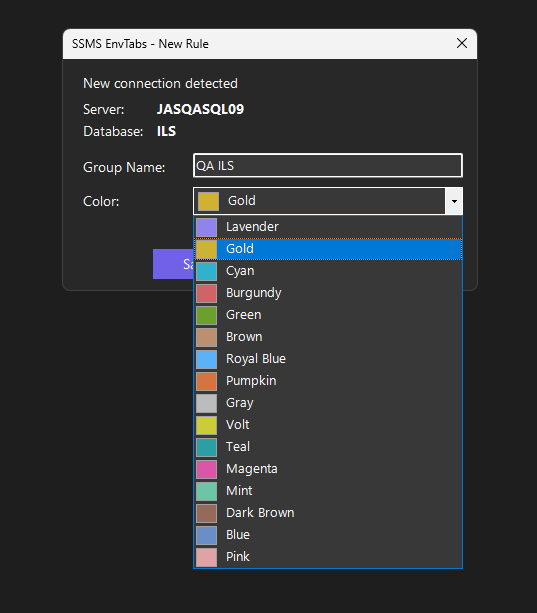
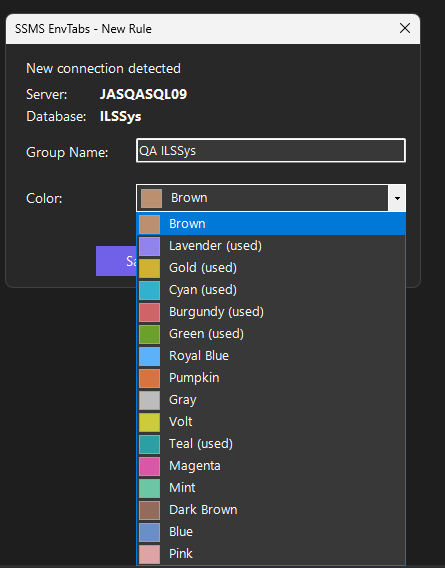
Added warning for same color

Changed region(s): [[0.0, 0.0, 0.964, 1.0]]

diff --git a/SSMS EnvTabs/NewRuleDialog.cs b/SSMS EnvTabs/NewRuleDialog.cs
@@ -44,6 +44,7 @@ namespace SSMS_EnvTabs
         private readonly string suggestedName;
         private readonly bool hideAliasStep;
         private readonly bool hideGroupNameRow;
+        private readonly HashSet<int> usedColorIndexes;
 
         private class ColorItem
         {
@@ -84,6 +85,7 @@ namespace SSMS_EnvTabs
             public bool HideDatabaseRow { get; set; }
             public bool HideAliasStep { get; set; }
             public bool HideGroupNameRow { get; set; }
+            public IEnumerable<int> UsedColorIndexes { get; set; }
         }
 
         public NewRuleDialog(NewRuleDialogOptions options)
@@ -96,6 +98,7 @@ namespace SSMS_EnvTabs
             this.suggestedName = options.SuggestedName;
             this.hideAliasStep = options.HideAliasStep;
             this.hideGroupNameRow = options.HideGroupNameRow;
+            this.usedColorIndexes = new HashSet<int>(options.UsedColorIndexes ?? Enumerable.Empty<int>());
 
             InitializeComponent(options.Server, options.Database, options.SuggestedColorIndex, options.HideDatabaseRow);
             
@@ -167,8 +170,8 @@ namespace SSMS_EnvTabs
             boldFont = new Font(scaledFont, FontStyle.Bold);
 
             int yShift = hideDatabaseRow ? 32 : 0;
-            int nameRowShift = hideGroupNameRow ? 30 : 0;
-            this.Size = new Size(430, 270 - yShift);
+            int nameRowOffset = hideGroupNameRow ? 0 : 12;
+            this.Size = new Size(430, 270 - yShift + nameRowOffset);
             this.FormBorderStyle = FormBorderStyle.FixedDialog;
             this.StartPosition = FormStartPosition.CenterScreen;
             this.MaximizeBox = false;
@@ -215,7 +218,7 @@ namespace SSMS_EnvTabs
                 panelRule.Controls.Add(lblDatabaseValue);
             }
 
-            int nameRowOffset = hideGroupNameRow ? 0 : 30;
+            // Layout adjustment when the Group Name row is visible
 
             if (!hideGroupNameRow)
             {
@@ -226,12 +229,12 @@ namespace SSMS_EnvTabs
                 panelRule.Controls.Add(txtName);
             }
 
-            lblColor = new Label { Text = "Color:", Location = new Point(16, 132 - yShift - nameRowOffset), AutoSize = true };
+            lblColor = new Label { Text = "Color:", Location = new Point(16, 132 - yShift + nameRowOffset), AutoSize = true };
             panelRule.Controls.Add(lblColor);
 
             cmbColor = new ComboBox 
             { 
-                Location = new Point(130, 128 - yShift - nameRowOffset), 
+                Location = new Point(130, 128 - yShift + nameRowOffset), 
                 Size = new Size(270, 26),
                 DropDownStyle = ComboBoxStyle.DropDownList,
                 DrawMode = DrawMode.OwnerDrawFixed,
@@ -257,7 +260,7 @@ namespace SSMS_EnvTabs
             cmbColor.DrawItem += CmbColor_DrawItem;
             cmbColor.DataSource = orderedList;
             
-            btnSave = new Button { Text = "Save", Location = new Point(90, 190 - yShift - nameRowOffset), Size = new Size(90, 30), DialogResult = DialogResult.OK };
+            btnSave = new Button { Text = "Save", Location = new Point(90, 190 - yShift + nameRowOffset), Size = new Size(90, 30), DialogResult = DialogResult.OK };
             btnSave.Click += (s, e) => {
                 if (txtName != null)
                 {
@@ -271,10 +274,10 @@ namespace SSMS_EnvTabs
             };
             panelRule.Controls.Add(btnSave);
 
-            btnCancel = new Button { Text = "Cancel", Location = new Point(190, 190 - yShift - nameRowOffset), Size = new Size(90, 30), DialogResult = DialogResult.Cancel };
+            btnCancel = new Button { Text = "Cancel", Location = new Point(190, 190 - yShift + nameRowOffset), Size = new Size(90, 30), DialogResult = DialogResult.Cancel };
             panelRule.Controls.Add(btnCancel);
 
-            btnOpenConfig = new Button { Text = "Open Config", Location = new Point(290, 190 - yShift - nameRowOffset), Size = new Size(110, 30), DialogResult = DialogResult.Yes };
+            btnOpenConfig = new Button { Text = "Open Config", Location = new Point(290, 190 - yShift + nameRowOffset), Size = new Size(110, 30), DialogResult = DialogResult.Yes };
             btnOpenConfig.Click += (s, e) => { 
                 RuleName = txtName != null ? txtName.Text : suggestedName; 
                 SelectedColorIndex = ((ColorItem)cmbColor.SelectedItem).Index; 
@@ -433,6 +436,7 @@ namespace SSMS_EnvTabs
             if (e.Index < 0) return;
 
             var item = (ColorItem)cmbColor.Items[e.Index];
+            string displayName = usedColorIndexes.Contains(item.Index) ? $"{item.Name} (used)" : item.Name;
 
             e.DrawBackground();
 
@@ -446,7 +450,7 @@ namespace SSMS_EnvTabs
             // Draw Text
             using (var brush = new SolidBrush(e.ForeColor))
             {
-                e.Graphics.DrawString(item.Name, e.Font, brush, e.Bounds.Left + 30, e.Bounds.Top + 1);
+                e.Graphics.DrawString(displayName, e.Font, brush, e.Bounds.Left + 30, e.Bounds.Top + 1);
             }
 
             e.DrawFocusRectangle();

diff --git a/SSMS EnvTabs/AutoConfigurationService.cs b/SSMS EnvTabs/AutoConfigurationService.cs
@@ -118,6 +118,11 @@ namespace SSMS_EnvTabs
                     // We use newRule.ColorIndex because AddRuleAndSave might have adjusted it if we add more logic, 
                     // but currently it just uses what we passed.
                     
+                    var usedColorIndexes = new HashSet<int>(
+                        config.ConnectionGroups
+                            .Where(r => !ReferenceEquals(r, newRule))
+                            .Select(r => r.ColorIndex));
+
                     var dialogOptions = new NewRuleDialog.NewRuleDialogOptions
                     {
                         Server = server,
@@ -127,7 +132,8 @@ namespace SSMS_EnvTabs
                         ExistingAlias = enableAutoRename ? ((!useDb && string.IsNullOrEmpty(existingAlias)) ? server : existingAlias) : null,
                         HideDatabaseRow = !useDb,
                         HideAliasStep = !enableAutoRename,
-                        HideGroupNameRow = !enableAutoRename
+                        HideGroupNameRow = !enableAutoRename,
+                        UsedColorIndexes = usedColorIndexes
                     };
 
                     using (var dlg = new NewRuleDialog(dialogOptions))
@@ -139,10 +145,13 @@ namespace SSMS_EnvTabs
                         var result = dlg.ShowDialog();
                         EnvTabsLog.Info($"AutoConfig: Dialog result = {result}");
                         bool changesApplied = false;
+                        int resultingColorIndex = newRule.ColorIndex;
+
                         if (result == DialogResult.OK || result == DialogResult.Yes) 
                         {
                             string updatedName = string.IsNullOrWhiteSpace(dlg.RuleName) ? newRule.GroupName : dlg.RuleName;
                             int updatedColor = dlg.SelectedColorIndex;
+                            resultingColorIndex = updatedColor;
 
                             bool configChanged = false;
 
@@ -183,6 +192,23 @@ namespace SSMS_EnvTabs
                             if (result == DialogResult.Yes)
                             {
                                 OpenConfigInEditor();
+                            }
+                        }
+
+                        if (result == DialogResult.OK || result == DialogResult.Cancel)
+                        {
+                            if (IsColorUsedByOtherRule(config, newRule, resultingColorIndex))
+                            {
+                                var choice = MessageBox.Show(
+                                    "This color is already assigned to another connection group. Open the config to resolve?",
+                                    "SSMS EnvTabs",
+                                    MessageBoxButtons.YesNo,
+                                    MessageBoxIcon.Warning);
+
+                                if (choice == DialogResult.Yes)
+                                {
+                                    OpenConfigInEditor();
+                                }
                             }
                         }
 
@@ -244,6 +270,21 @@ namespace SSMS_EnvTabs
             // Save
             SaveConfig(config);
             return newRule;
+        }
+
+        private static bool IsColorUsedByOtherRule(TabGroupConfig config, TabGroupRule currentRule, int colorIndex)
+        {
+            if (config?.ConnectionGroups == null) return false;
+
+            foreach (var rule in config.ConnectionGroups)
+            {
+                if (!ReferenceEquals(rule, currentRule) && rule.ColorIndex == colorIndex)
+                {
+                    return true;
+                }
+            }
+
+            return false;
         }
 
         private static void OpenConfigInEditor()
